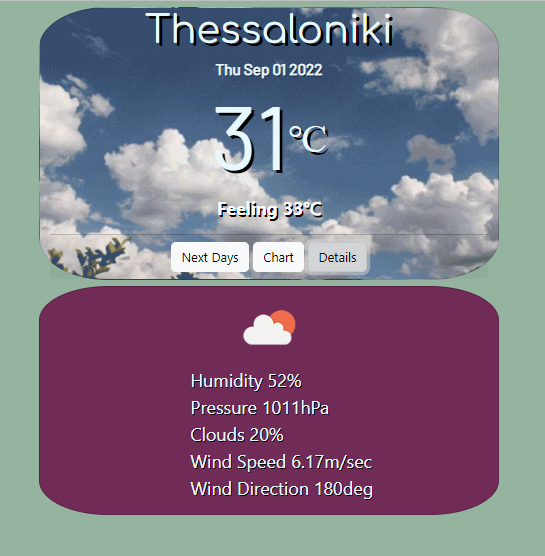
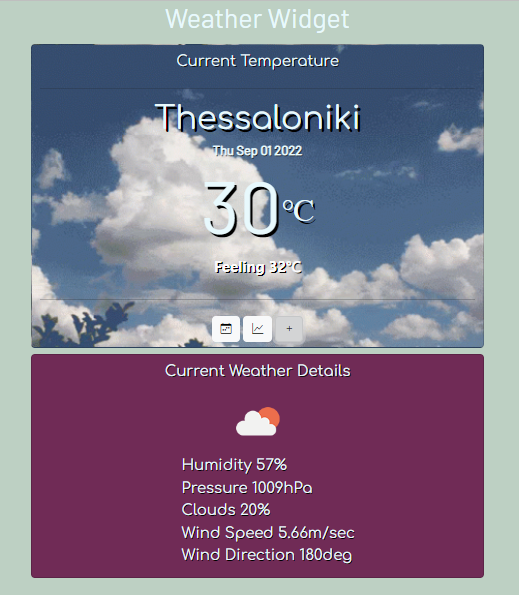
Improve UI

diff --git a/index.html b/index.html
@@ -11,6 +11,7 @@
     <!-- Bootstrap -->
     <link href="https://cdn.jsdelivr.net/npm/bootstrap@5.2.0/dist/css/bootstrap.min.css" rel="stylesheet"
         integrity="sha384-gH2yIJqKdNHPEq0n4Mqa/HGKIhSkIHeL5AyhkYV8i59U5AR6csBvApHHNl/vI1Bx" crossorigin="anonymous">
+    <link rel="stylesheet" href="https://cdn.jsdelivr.net/npm/bootstrap-icons@1.9.1/font/bootstrap-icons.css">
     <!-- Google Fonts -->
     <link rel="preconnect" href="https://fonts.googleapis.com">
     <link rel="preconnect" href="https://fonts.gstatic.com" crossorigin>
@@ -18,10 +19,15 @@
 </head>
 
 <body>
+    <h1 class="projectTitle">Weather Widget</h1>
     <!-- Current Temperature Card -->
 
     <div class="row d-flex flex-column">
-        <div id="temperature-card" class=" card col-md-4 padding mTop align-self-center mt-2">
+        <div id="temperature-card" class=" card col-md-4 padding align-self-center mt-2">
+            <div class="card-header font-comfortaa">
+                Current Temperature
+            </div>
+            <hr>
             <div class="location-date">
                 <h1 id="location" class="text-style padding font-comfortaa card-title">Thessaloniki</h1>
                 <p class="date text-style card-subtitle"></p>
@@ -31,21 +37,25 @@
                 <p class="celcious text-style card-text">℃</p>
             </div>
             <p class="temp-feeling text-style"></p>
+            <hr>
             <div class="card-footer">
                 <button type="button" class="btn btn-light" data-bs-toggle="collapse" data-bs-target="#date-list"
-                    aria-expanded="false" aria-controls="date-list">Next Days</button>
+                    aria-expanded="false" aria-controls="date-list"><i class="bi bi-calendar-week"></i></button>
                 <button type="button" class="btn btn-light chart-btn" data-bs-toggle="collapse"
-                    data-bs-target=".chart-card" aria-expanded="false" aria-controls="chart-card">Chart</button>
+                    data-bs-target=".chart-card" aria-expanded="false" aria-controls="chart-card"><i
+                        class="bi bi-graph-up"></i></button>
                 <button type="button" class="btn btn-light details" data-bs-toggle="collapse"
-                    data-bs-target="#weather-det" aria-expanded="false" aria-controls="weather-det">Details</button>
+                    data-bs-target="#weather-det" aria-expanded="false" aria-controls="weather-det"><i
+                        class="bi bi-plus"></i></button>
             </div>
         </div>
         <!-- Current Weather Details -->
 
         <div id="weather-det"
-            class="weather-details-card text-style mTop col-md-4 card padding collapse align-self-center mt-2">
+            class="weather-details-card text-style col-md-4 card padding collapse align-self-center mt-2">
+            <div class="card-header text-style font-comfortaa">Current Weather Details</div>
             <img class="weather-img padding " src="" alt="current weather image">
-            <ul class="list-style">
+            <ul class="list-style font-comfortaa">
                 <li class="humidity card-text"></li>
                 <li class="pressure card-text"></li>
                 <li class="clouds card-text"></li>
@@ -56,8 +66,10 @@
 
         </div>
         <div class="collapse collapse-item mt-2" id="date-list">
-            <div class="card card-body col-md-4 align-self-center btnList">
-                <div class="btn-group-sm" role="group">
+            <div class="card card-body align-self-center btnList col-md-4">
+                <div class="card-header font-comfortaa">Next Dates</div>
+                <hr>
+                <div class="btn-group-sm card-body" role="group">
                     <button type="button" class="dateBtn1 btn btn-light mt-2"></button>
                     <button type="button" class="dateBtn2 btn btn-light mt-2"></button>
                     <button type="button" class="dateBtn3 btn btn-light mt-2"></button>
@@ -71,8 +83,9 @@
         <!-- Forecast Info -->
 
         <div class="forecast-info text-style col-md-4 card padding align-self-center mt-2">
+            <div class="card-header text-style font-comfortaa">Forecast Details</div>
             <img class="forecast-img padding " src="" alt="forecast weather image">
-            <ul class="list-style">
+            <ul class="list-style font-comfortaa">
                 <li class="temperature-forecast card-text"></li>
                 <li class="feelsLike-forecast card-text"></li>
                 <li class="humidity-forecast card-text"></li>
@@ -81,15 +94,16 @@
                 <li class="wind-sp-forecast card-text"></li>
                 <li class="wind-deg-forecast card-text"></li>
             </ul>
-            <button type="button" class="btn btn-light go-back-btn">Go back</button>
+            <button type="button" class="btn btn-light go-back-btn"><i class="bi bi-arrow-return-left"></i></button>
         </div>
     </div>
     </div>
     <!-- Max Temperature Chart -->
 
     <div class="row justify-content-center">
-        <div class="collapse card chart-card col-md-4 mt-2" id="chart">
-            <canvas id="maxTempChart" width="100" height="50"></canvas>
+        <div class="collapse card chart-card col-md-4 mt-2 mb-2" id="chart">
+            <!--    <div class="card-header text-style">Max Temperature chart</div> -->
+            <canvas id="maxTempChart" width="300" height="180"></canvas>
         </div>
     </div>
 

diff --git a/index.js b/index.js
@@ -80,7 +80,6 @@ function maxTempChart(dates) {
             ],
             datasets: [
                 {
-                    label: 'Max Temperature',
                     data: [
                         (Math.round(dates[0].temp.max)),
                         (Math.round(dates[1].temp.max)),
@@ -96,6 +95,24 @@ function maxTempChart(dates) {
             ]
         },
         options: {
+            plugins: {
+                title: {
+                    display: true,
+                    text: 'Max Temperature Chart',
+                    padding: {
+                        top:5,
+                        bottom: 2
+                    },
+                    align: 'center',
+                    color: 'rgba(251, 251, 251)',
+                    position:'top',
+                    font:{
+                        family: "'Comfortaa', cursive",
+                        size: 22, 
+                        weight: 'lighter'
+                    }
+                }
+            },
             scales: {
                 y: {
                     ticks: {
@@ -128,8 +145,10 @@ $(".forecast-info").hide();
 /* Turns the user back to the main card, closing all the other open cards*/
 $(".go-back-btn").click(function () {
     $(".collapse-item").collapse('toggle');
+    $(".weather-details-card").collapse('toggle');
+    $("#temperature-card").show();  
+    $(".projectTitle").show();
     $(".forecast-info").hide();
-    $("#temperature-card").show();
 })
 
 /* Displays the card with the current weather details*/
@@ -138,13 +157,12 @@ $(".details").click(function () {
 })
 
 /* Displays the forecast for the corresponding date,
- closing all the other open cards, 
- except for the one with the other dates*/
+ closing the current temperature and the weather-details cards*/
 $('*[class^="dateBtn"]').click(function () {
     $(".weather-details-card").hide();
     $("#temperature-card").hide();
     $(".forecast-info").show();
-    $("#maxTempChart").hide();
+    $(".projectTitle").hide();
 })
 
 /* Displays the chart card*/

diff --git a/styles.css b/styles.css
@@ -1,7 +1,13 @@
 
 html body{
-    background-color: #94B49F ;
-}   
+    background-color: #bdd0c3 ;
+}  
+
+.projectTitle{
+    text-align: center;
+    color: #E8F9FD;
+    font-family: 'Barlow', sans-serif;
+}
 
 /* Main styling classes */
 
@@ -15,11 +21,21 @@ html body{
     font-family: 'Comfortaa', cursive;
 }
 
+.transparent{
+    background-color: transparent;
+}
+
 /* Temperature Card */
 
 .row > #temperature-card {
     background-size: cover;
-    border-radius: 15%;
+}
+
+#temperature-card > .card-header{
+    text-align: center;
+    color: #E8F9FD;
+    text-shadow: 1px 1px black;
+    font-weight: bold;
 }
 
 #location {
@@ -59,8 +75,10 @@ html body{
     text-emphasis-color: black;
 }
 
-.card-footer {
+.card> .card-footer {
     text-align: center;
+    background-color:transparent;
+    border: none;
 }
 
 /* Weather Details Card */
@@ -70,7 +88,6 @@ html body{
 }
 
 .row > .weather-details-card {
-    border-radius: 15%;
     text-align: start;
     align-items: center;
     font-size: 1.4rem;
@@ -81,7 +98,6 @@ html body{
 /* Forecast Card */
 
 .row > .forecast-info {
-    border-radius: 15%;
     text-align: start;
     align-items: center;
     font-size: 1.4rem;
@@ -91,14 +107,11 @@ html body{
 
 /* Max Temperature Chart */
 
-#maxTempChart {
-    background-color: #702b56;
-    border-radius: 1%;
-}
-
 #chart{
-    background-color: transparent;
+    background-color:  #702b56;;
     border: none;
+    padding-left: 12px;
+    padding-right: 12px;
 }
 
 #date-list > .btnList{
@@ -106,4 +119,13 @@ html body{
     text-align: center;
     background-color: transparent;
     border: none;
+}
+
+.card > .card-header{
+background-color: transparent;
+text-shadow: 2px 1px #0e0d0e ;
+border: none;
+text-align: center;
+color: #E8F9FD;
+font-size: 1.4rem;
 }
